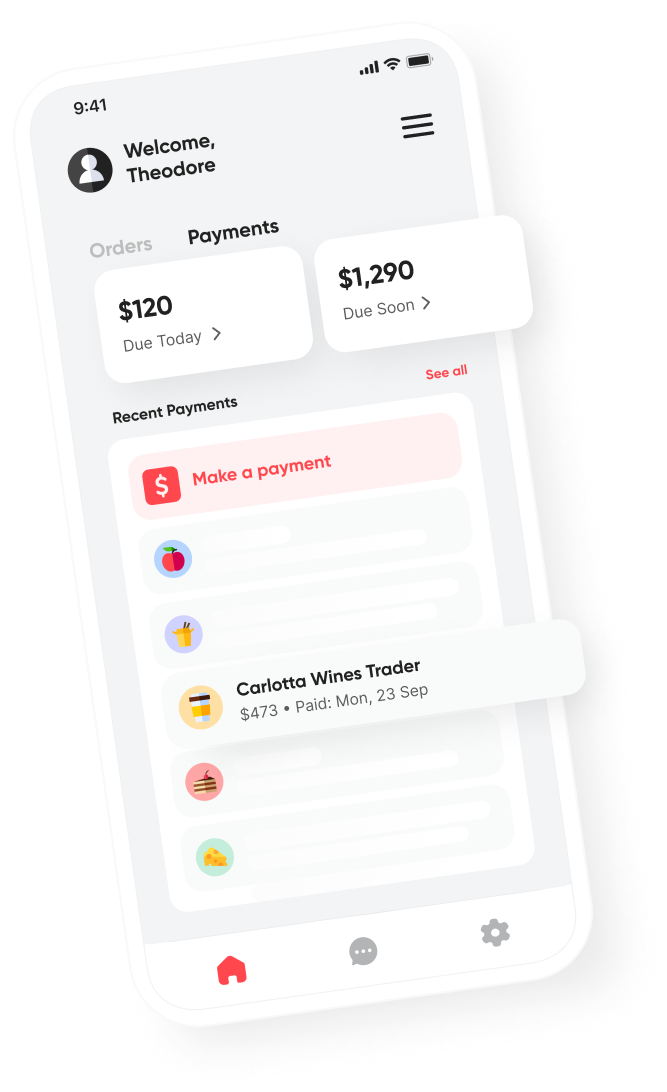
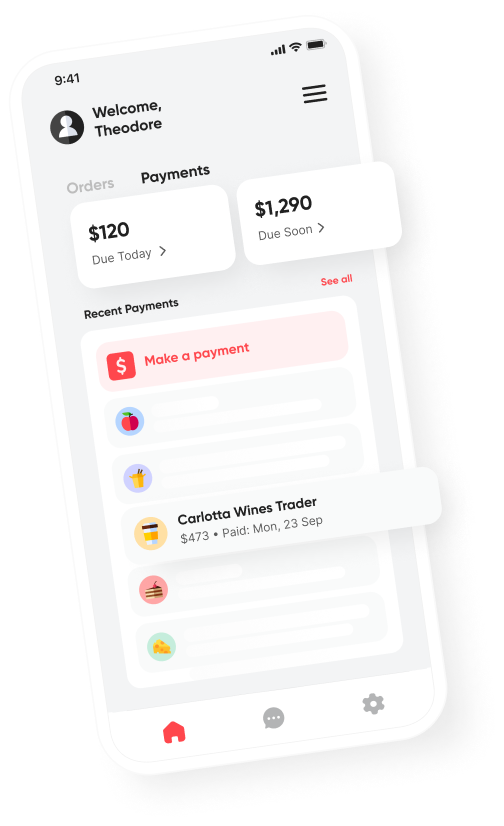
ref: menu list, page home

diff --git a/src/components/Home/HomeStyles.tsx b/src/components/Home/HomeStyles.tsx
@@ -17,9 +17,11 @@ export const H1 = styled.div`
   font-size: 28px;
   line-height: 34px;
   text-align: center;
+
   & span {
     color: #FF474D;
   }
+
   &::before {
     position: absolute;
     content: url("assets/icons/stars.png");
@@ -31,7 +33,7 @@ export const H1 = styled.div`
 export const TextBeforeButton = styled.div`
   max-width: 333px;
   margin: 16px auto 0;
-  font-family: 'Inter',serif;
+  font-family: 'Inter', serif;
   font-style: normal;
   font-weight: 400;
   font-size: 14px;
@@ -43,7 +45,7 @@ export const TextBeforeButton = styled.div`
 export const Button = styled.button`
   margin: 32px auto 0;
   padding: 14px 32px;
-  font-family: 'Gilroy',serif;
+  font-family: 'Gilroy', serif;
   font-style: normal;
   font-weight: 700;
   font-size: 16px;
@@ -65,7 +67,7 @@ export const TextWrapper = styled.div`
 
 export const TextAfterButton = styled.div`
   width: 87px;
-  font-family: 'Gilroy',serif;
+  font-family: 'Gilroy', serif;
   font-style: normal;
   font-weight: 400;
   font-size: 14px;
@@ -86,7 +88,6 @@ export const BoxWrapper = styled.div`
   justify-content: center;
   align-items: center;
   margin: -46px 0 0 -449px;
-  overflow: hidden;
 `;
 export const MainBox = styled.div`
   display: flex;
@@ -115,8 +116,8 @@ export const RhombsTop = styled.div`
   width: 163px;
   height: 124px;
   position: absolute;
-  top: -236px;
-  left: 163px;
+  top: -171px;
+  left: 207px;
 `;
 
 export const RhombsBottom = styled.div`
@@ -125,52 +126,59 @@ export const RhombsBottom = styled.div`
   width: 278px;
   height: 211px;
   position: absolute;
-  top: 7px;
-  left: 263px;
+  bottom: 157px;
+  left: 328px;
 `;
 
 export const BoxInner = styled.div`
   position: relative;
-  width: 300px;
-  height: 300px;
+  width: 430px;
+  height: 430px;
   transform: rotate(45deg);
 `;
 
 export const DeviceLeft = styled.img`
-  width: 161px;
+  width: 168px;
+  height: 274px;
   position: absolute;
-  top: 245px;
-  left: 5px;
+  top: 11px;
+  left: 231px;
 `;
 
 export const DeviceRight = styled.img`
-  width: 518px;
+  min-width: 514px;
+  height: 385px;
   position: absolute;
-  top: 80px;
-  left: 101px;
+  top: -139px;
+  right: -419px;
 `;
 
 export const BlockWrapper = styled.div`
   position: relative;
   width: 869px;
   height: 869px;
-  z-index: -1;
+  //z-index: -1;
+  //background-color: green;
+  margin: 0 auto;
+  max-width: 375px;
 `;
 
 export const HowItWorksWrapper = styled.div`
   display: flex;
   justify-content: center;
   align-items: center;
-  width: 1000px;
-  height: 1000px;
-  margin: -430px 0 0 -66px;
+  margin: -387px 0 0 0;
+  height: 767px;
+  background: #F7F7F7;  transform: skewY(-8deg);
+  border-radius: 50px 0 0 50px;
 `;
 
 export const HowItWorksInner = styled.div`
   position: relative;
   width: 869px;
   height: 869px;
-  background-color: #F7F7F7;
+  //background-color: #F7F7F7;
+  background-color: red;
   border-radius: 88px;
 `;
 
@@ -180,6 +188,7 @@ export const HowItWorksRotated = styled.div`
   height: 875px;
   //margin: -377px 0 0 0;
   background-color: #F7F7F7;
+  background-color: green;
   transform: rotate(-8deg);
   top: -142px;
   left: 126px;

diff --git a/src/components/common/Header/Header.tsx b/src/components/common/Header/Header.tsx
@@ -3,36 +3,49 @@ import useToggle from 'react-use/lib/useToggle';
 import MenuButton from '../Menu/MenuButton';
 import CloseButton from "../CloseButton/CloseButton";
 import MenuList from "../Menu/MenuList";
-import {ArrowDown, ChooseLanguage, Container, HeaderWrapper, Language, LeftWrapper, Logo, Wrapper} from "./HeaderStyles";
+import {
+    ArrowDown,
+    ChooseLanguage,
+    Container,
+    HeaderWrapper,
+    Language,
+    LeftWrapper,
+    Logo,
+    Wrapper
+} from "./HeaderStyles";
 import {useNavigate} from 'react-router-dom';
-
-const Header = () => {
-    const [isOpenMenu, setIsOpenMenu] = useToggle(false);
+interface Props {
+    setIsOpenMenu: (value: boolean) => void
+    isOpenMenu: boolean
+}
+const Header = ({setIsOpenMenu, isOpenMenu}: Props) => {
     const nav = useNavigate()
     return (
-        <Container>
-            <Wrapper>
-                <HeaderWrapper>
-                    <LeftWrapper>
-                        <Logo onClick={() => {
-                            nav('/')
-                            setIsOpenMenu(false)
-                        }
-                        } src="/assets/images/logo.svg" alt="#"/>
-                        <ChooseLanguage isOpenMenu={isOpenMenu}>
-                            <Language>EN</Language>
-                            <ArrowDown src="/assets/images/arrowDown.svg" alt="#"/>
-                        </ChooseLanguage>
-                    </LeftWrapper>
-                    <div>
-                        <MenuButton isOpenMenu={isOpenMenu} setIsOpenMenu={setIsOpenMenu}/>
-                        <CloseButton isOpenMenu={isOpenMenu} setIsOpenMenu={setIsOpenMenu}/>
-                    </div>
-                </HeaderWrapper>
+        <div>
+            <Container>
+                <Wrapper>
+                    <HeaderWrapper>
+                        <LeftWrapper>
+                            <Logo onClick={() => {
+                                nav('/')
+                                setIsOpenMenu(false)
+                            }
+                            } src="/assets/images/logo.svg" alt="#"/>
+                            <ChooseLanguage isOpenMenu={isOpenMenu}>
+                                <Language>EN</Language>
+                                <ArrowDown src="/assets/images/arrowDown.svg" alt="#"/>
+                            </ChooseLanguage>
+                        </LeftWrapper>
+                        <div>
+                            <MenuButton isOpenMenu={isOpenMenu} setIsOpenMenu={setIsOpenMenu}/>
+                            <CloseButton isOpenMenu={isOpenMenu} setIsOpenMenu={setIsOpenMenu}/>
+                        </div>
+                    </HeaderWrapper>
 
-                <MenuList setIsOpenMenu={setIsOpenMenu} isOpenMenu={isOpenMenu}/>
-            </Wrapper>
-        </Container>
+                </Wrapper>
+            </Container>
+        </div>
+
     );
 };
 

diff --git a/src/components/common/Menu/MenuList.tsx b/src/components/common/Menu/MenuList.tsx
@@ -1,24 +1,34 @@
 import React from 'react';
 import { useNavigate } from 'react-router-dom';
-import {Page, Pages} from "./MenuListStyles";
+import {OpenMenuWrapper, Page, Pages} from "./MenuListStyles";
 
 interface Props {
-    isOpenMenu: boolean,
     setIsOpenMenu: (value: boolean) => void,
 }
 
-const MenuList = ({isOpenMenu, setIsOpenMenu}: Props) => {
+const MenuList = ({setIsOpenMenu}: Props) => {
     const nav = useNavigate()
      const onLinkClick = (value: string) => {
          setIsOpenMenu(false)
          nav(`/${value}`)
     }
     return (
-        <Pages isOpenMenu={isOpenMenu}>
-            <Page isActive={window.location.pathname === '/Home' || window.location.pathname === '/'} onClick={() => onLinkClick('Home')}>Home</Page>
-            <Page isActive={window.location.pathname === '/Features'} onClick={() => onLinkClick('Features')}>Features</Page>
-            <Page isActive={window.location.pathname === '/Company'} onClick={() => onLinkClick('Company')}>Company</Page>
-        </Pages>
+        <OpenMenuWrapper>
+            <div>
+                <span>
+                    <span>logo</span>
+                    <span>language</span>
+                </span>
+                <span onClick={() =>  setIsOpenMenu(false)}>Cross</span>
+            </div>
+             <Pages>
+
+                 <Page isActive={window.location.pathname === '/Home' || window.location.pathname === '/'} onClick={() => onLinkClick('Home')}>Home</Page>
+                <Page isActive={window.location.pathname === '/Features'} onClick={() => onLinkClick('Features')}>Features</Page>
+                <Page isActive={window.location.pathname === '/Company'} onClick={() => onLinkClick('Company')}>Company</Page>
+             </Pages>
+        </OpenMenuWrapper>
+
     );
 };
 

diff --git a/src/App.tsx b/src/App.tsx
@@ -1,24 +1,31 @@
 import React from 'react';
 import Header from "./components/common/Header/Header";
-import {BrowserRouter, Routes} from "react-router-dom";
+import {BrowserRouter, Route, Routes} from "react-router-dom";
 import Home from "./components/Home/Home";
 import styled from "styled-components";
+import {useToggle} from 'react-use';
+import MenuList from "./components/common/Menu/MenuList";
 
 function App() {
+    const [isOpenMenu, setIsOpenMenu] = useToggle(false);
+
     return (
         <BrowserRouter>
-            <Wrapper>
-                <Header/>
-                <Home/>
-                <Routes>
-                </Routes>
-            </Wrapper>
+            {
+                isOpenMenu ? <MenuList setIsOpenMenu={setIsOpenMenu}/> :
+                    <Wrapper>
+                        <Header isOpenMenu={isOpenMenu} setIsOpenMenu={setIsOpenMenu}/>
+                        <Routes>
+                            <Route path='/' element={<Home/>}/>
+                        </Routes>
+                    </Wrapper>
+            }
+
         </BrowserRouter>
     );
 }
 
 const Wrapper = styled.div`
-  max-width: 375px;
   margin: 0 auto;
   overflow: hidden;
 `;

diff --git a/src/components/common/Menu/MenuListStyles.tsx b/src/components/common/Menu/MenuListStyles.tsx
@@ -1,17 +1,16 @@
 import styled from "styled-components";
 
-export const Pages = styled.ul<{ isOpenMenu: boolean }>`
-  display: ${({ isOpenMenu }) => isOpenMenu ? 'flex' : 'none'};
-  height: 146px;
+export const Pages = styled.ul`
+  display: flex;
   flex-direction: column;
   justify-content: space-between;
   align-items: center;
   padding: 0 0;
-  margin: 235px 0 0 0;
+
 `;
 
-export const Page = styled.li<{isActive: boolean}>`
-  font-family: 'Gilroy',serif;
+export const Page = styled.li<{ isActive: boolean }>`
+  font-family: 'Gilroy', serif;
   font-style: normal;
   font-weight: 400;
   font-size: 18px;
@@ -20,7 +19,15 @@ export const Page = styled.li<{isActive: boolean}>`
   color: ${({isActive}) => isActive ? '#FF474D' : '#212121'};
   cursor: pointer;
   -webkit-tap-highlight-color: rgba(0, 0, 0, 0);
-& a:active{
-  color: #FF474D;
-`;
 
+  & a:active {
+    color: #FF474D;
+`;
+export const OpenMenuWrapper = styled.div`
+  position: fixed;
+  width: 100%;
+  height: 100%;
+  background-color: #fff;
+  right: 0;
+  z-index: 999;
+`;

diff --git a/src/components/Home/Home.tsx b/src/components/Home/Home.tsx
@@ -39,17 +39,18 @@ const Home = () => {
                             <BoxInner>
                                 <RhombsTop/>
                                 <RhombsBottom/>
+                                <DeviceLeft src='/assets/images/deviceLeft.png'/>
+                                <DeviceRight src='/assets/images/deviceRight.png'/>
                             </BoxInner>
                         </Box>
                     </MainBox>
                 </BoxWrapper>
-                <DeviceLeft src='/assets/images/deviceLeft.png'/>
-                <DeviceRight src='/assets/images/deviceRight.png'/>
+
             </BlockWrapper>
             <HowItWorksWrapper>
-                <HowItWorksInner>
-                    <HowItWorksRotated/>
-                </HowItWorksInner>
+                {/*<HowItWorksInner>*/}
+                {/*    <HowItWorksRotated/>*/}
+                {/*</HowItWorksInner>*/}
             </HowItWorksWrapper>
         </div>
 

diff --git a/src/styles/globals.css b/src/styles/globals.css
@@ -10,7 +10,6 @@
 html, body {
     height: 100%;
     width: 100%;
-    /*overflow: hidden;*/
 }
 body {
     line-height: 1.5;
